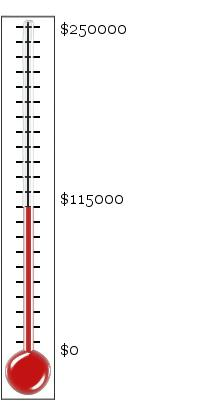
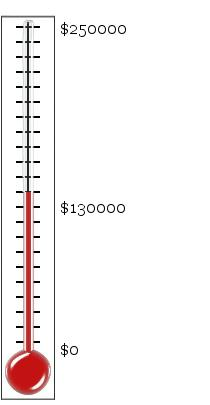
$130K. Small donations go Platinum!

Changed region(s): [[0.2857, 0.4741, 0.6, 0.5333], [0.0857, 0.4741, 0.1714, 0.5333]]

diff --git a/contributors.html b/contributors.html
@@ -107,12 +107,14 @@ $5000 or more, and display your logo for donations of $10,000 or more.
 <UL>
 <LI> Iridium: $100,000 to $250,000
 <LI> Platinum: $50,000 to $100,000
+<UL>
+<LI><A HREF=donations.html>Total from smaller donors</A>
+</UL>
 <LI> Gold: $25,000 to $50,000
 <UL>
 <LI><A HREF=https://www.duckduckgo.com>DuckDuckGo</A>
 </UL>
 <UL>
-<LI><A HREF=donations.html>Total from smaller donors</A>
 </UL>
 <LI> Silver: $10,000 to $25,000
 <UL>
